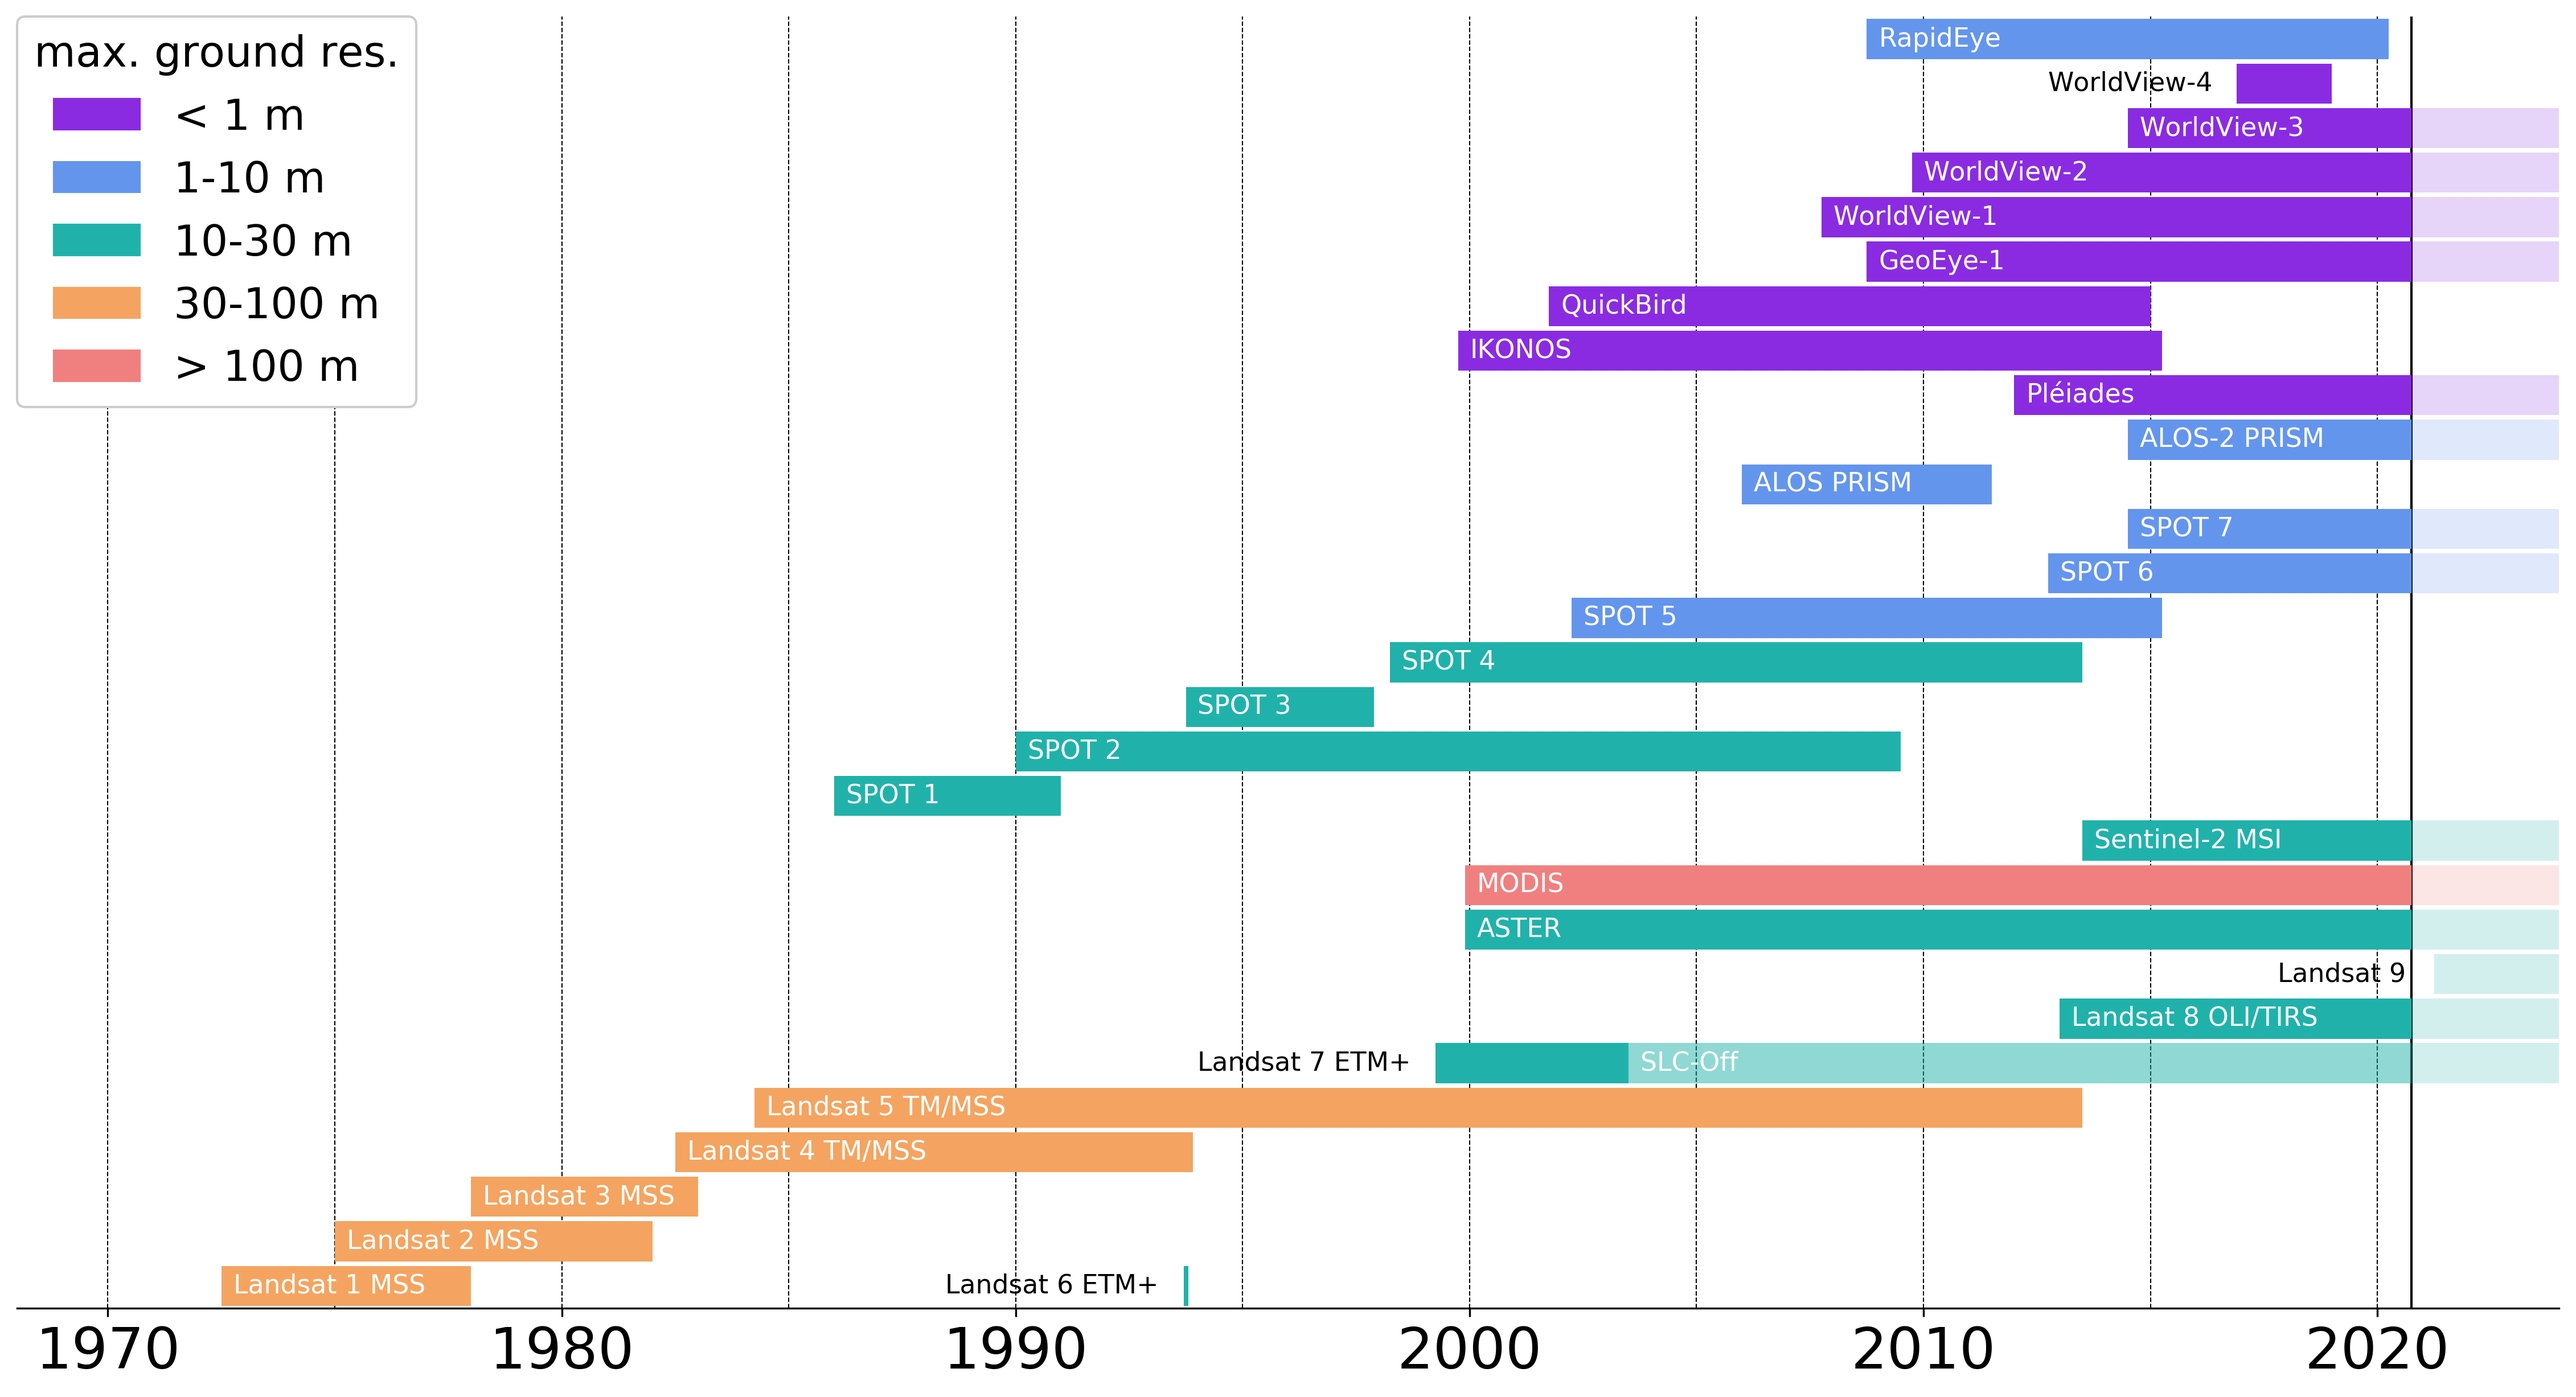
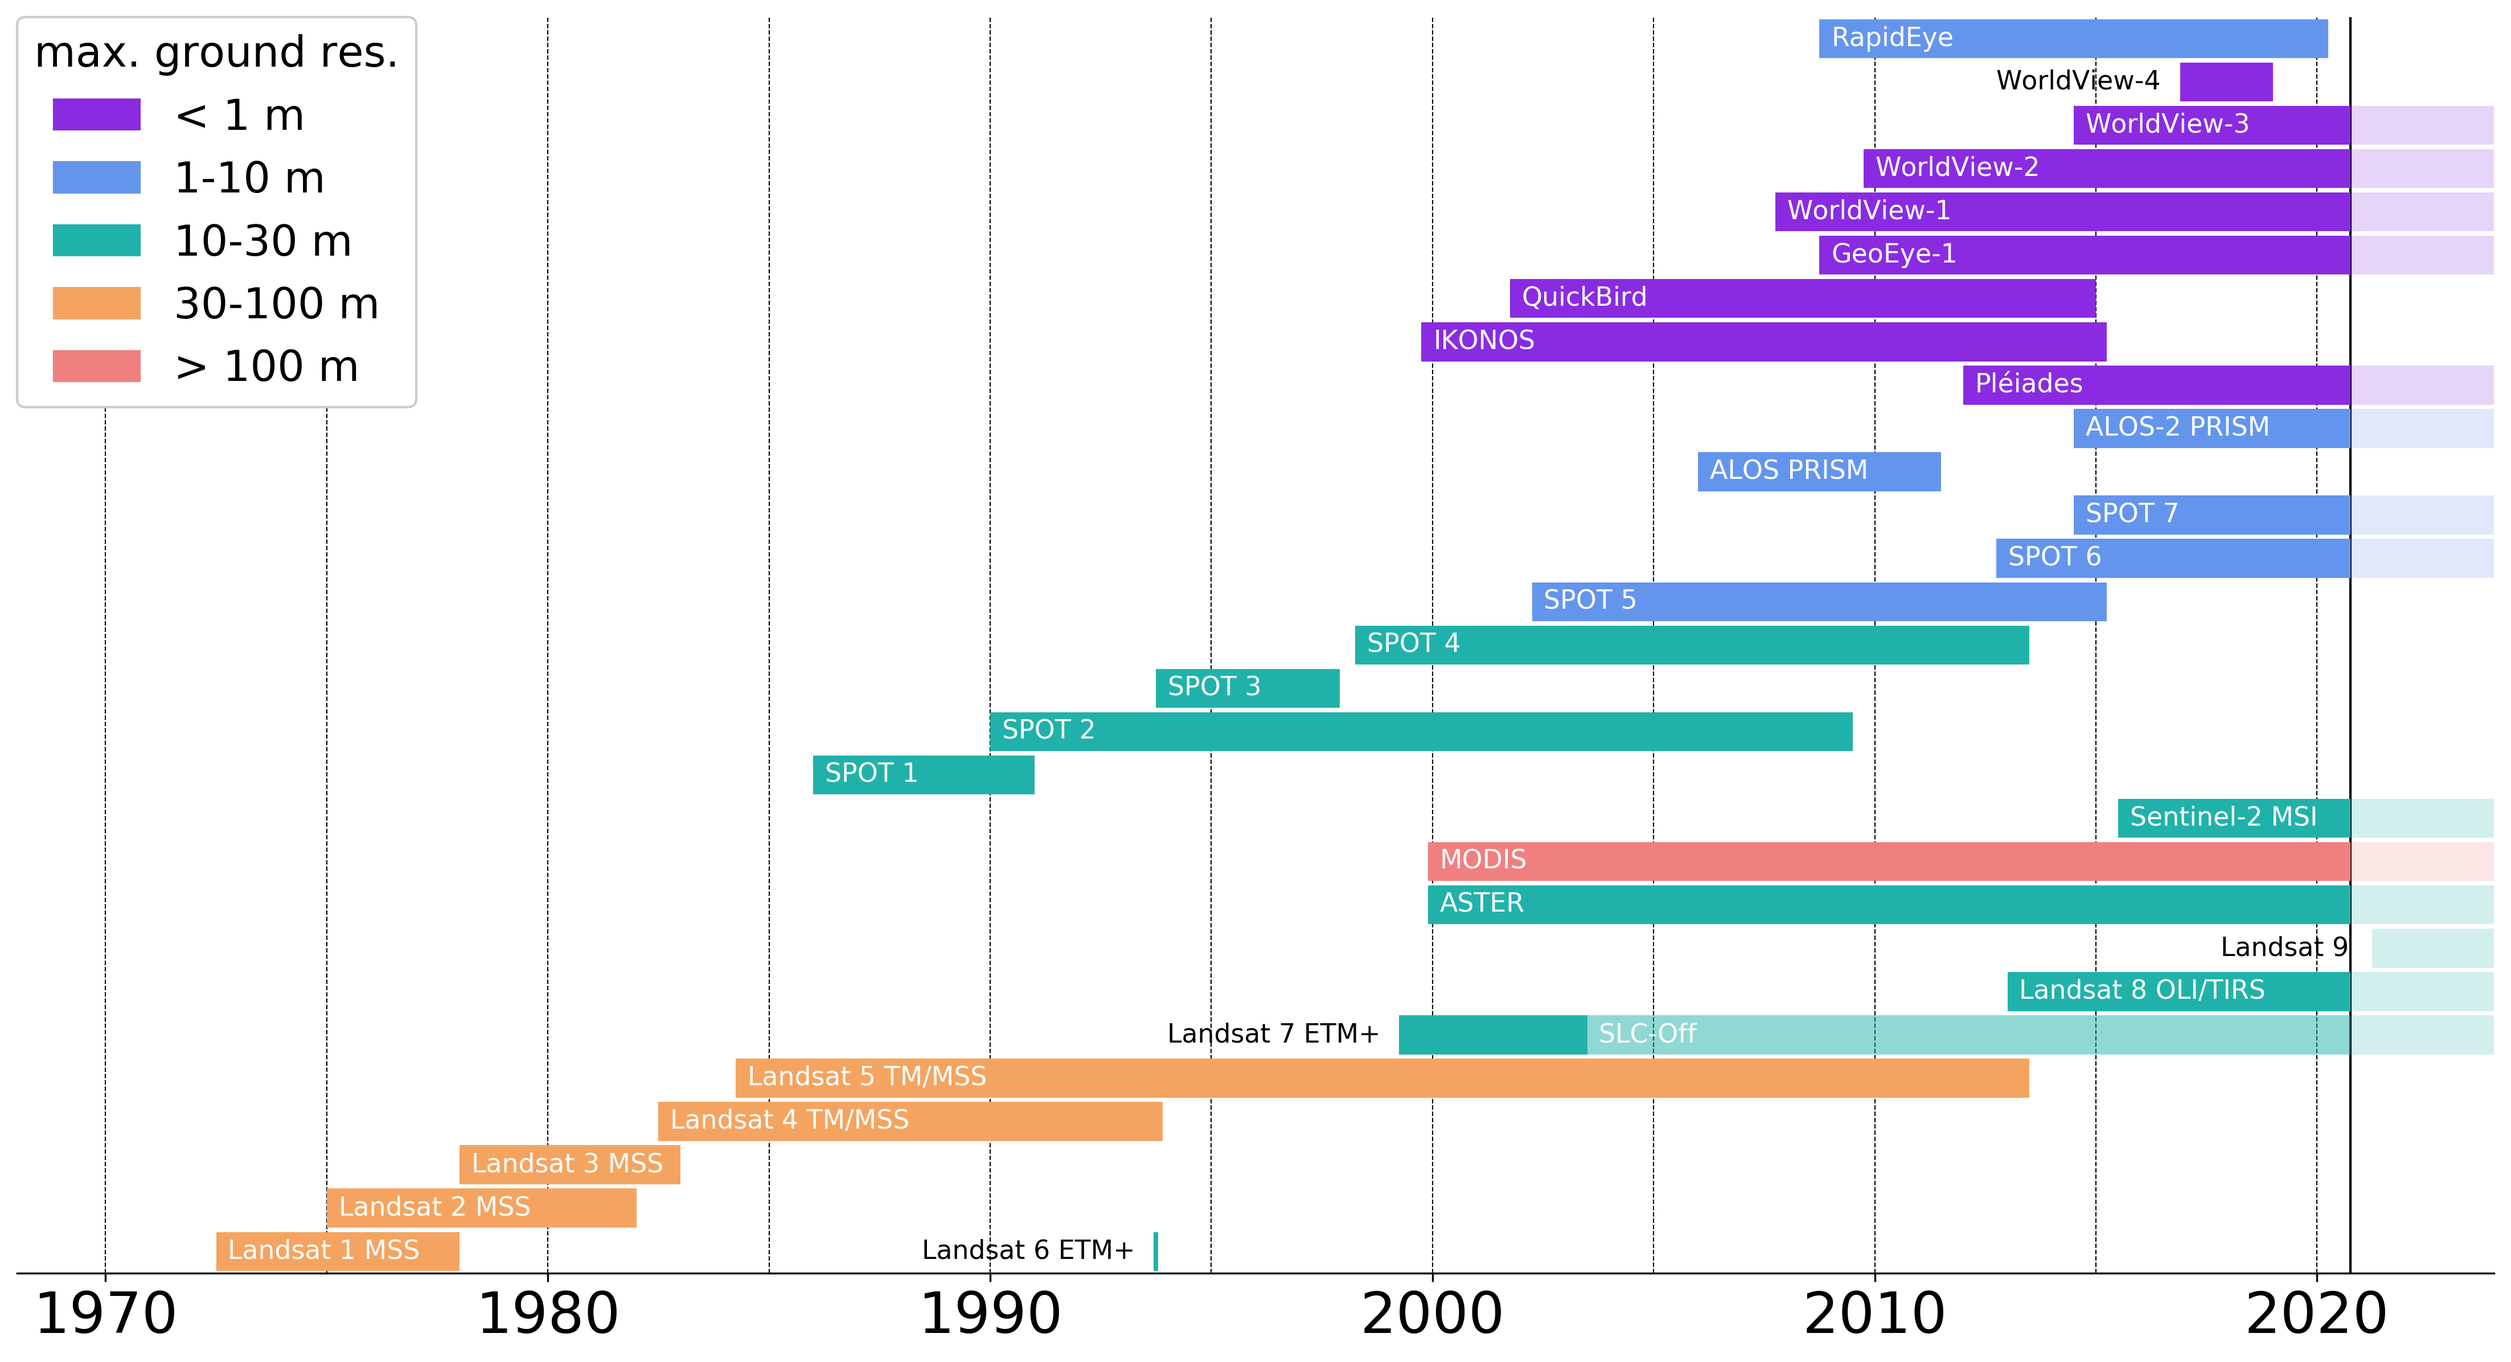
fix sentinel-2 start date.

diff --git a/satellite_mission_diagram.py b/satellite_mission_diagram.py
@@ -87,7 +87,7 @@ terra = [('ASTER', 1999.9, today, 2, 1),
          (None, today, 2025, 4, 0.2)]
 
 # sentinel-2
-sentinel = [('Sentinel-2 MSI', 2013.5, today, 2, 1),
+sentinel = [('Sentinel-2 MSI', 2015.5, today, 2, 1),
             (None, today, 2025, 2, 0.2)]
 
 # SPOT
